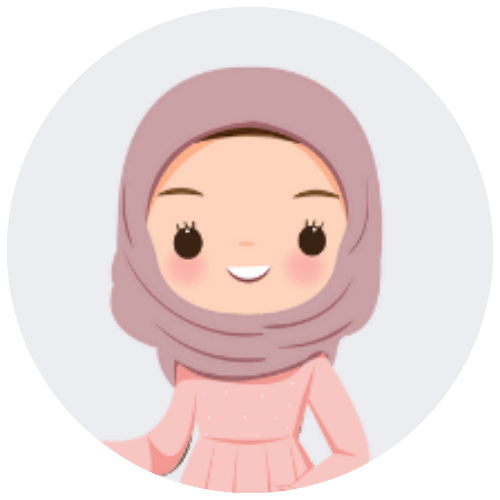
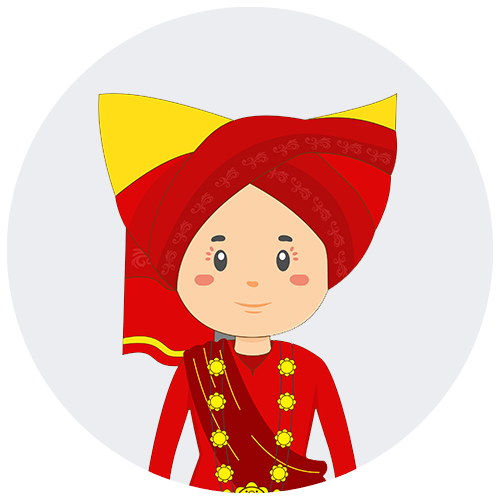
new update data

diff --git a/index.html b/index.html
@@ -4,32 +4,23 @@
     <!-- Common Tag -->
     <meta charset="utf-8" />
     <meta name="viewport" content="width=device-width, initial-scale=1" />
-    <title>Website Undangan Pernikahan Wahyu dan Riski Secara Online</title>
+    <title>Undangan Pernikahan Riga dan Dewi</title>
 
     <!-- SEO Tag -->
     <meta name="author" content="dewanakl" />
     <meta name="language" content="Indonesia" />
     <meta name="robots" content="index, follow, max-image-preview:large" />
     <meta name="googlebot" content="index, follow, max-image-preview:large" />
-    <meta
-      name="title"
-      content="Website Undangan Pernikahan Wahyu dan Riski Secara Online"
-    />
-    <meta
-      name="description"
-      content="Website Undangan Pernikahan Wahyu dan Riski Secara Online"
-    />
+    <meta name="title" content="Undangan Pernikahan Riga dan Dewi" />
+    <meta name="description" content="Undangan Pernikahan Riga dan Dewi" />
     <meta
       name="keywords"
       content="undangan, wedding, undangan digital, undangan online, wedding invitation, template undangan, template undangan pernikahan, undangan pernikahan, template undangan online, wedding invitation github, template website, template website undangan pernikahan"
     />
-    <meta
-      property="og:title"
-      content="Website Undangan Pernikahan Wahyu dan Riski Secara Online"
-    />
+    <meta property="og:title" content="Undangan Pernikahan Riga dan Dewi" />
     <meta
       property="og:description"
-      content="Website Undangan Pernikahan Wahyu dan Riski Secara Online"
+      content="Undangan Pernikahan Riga dan Dewi"
     />
     <meta
       property="og:keywords"
@@ -44,23 +35,17 @@
       content="https://ulems.my.id/assets/images/bg.jpeg"
     />
     <meta property="og:image:type" content="image/jpeg" />
-    <meta
-      property="og:image:alt"
-      content="Website Undangan Pernikahan Wahyu dan Riski Secara Online"
-    />
+    <meta property="og:image:alt" content="Undangan Pernikahan Riga dan Dewi" />
     <meta property="og:type" content="website" />
     <meta property="og:locale" content="id_ID" />
     <meta property="og:url" content="https://ulems.my.id" />
-    <meta
-      property="og:site_name"
-      content="Website Undangan Pernikahan Wahyu dan Riski Secara Online"
-    />
+    <meta property="og:site_name" content="Undangan Pernikahan Riga dan Dewi" />
 
     <!-- Appearance -->
     <meta name="mobile-web-app-capable" content="yes" />
     <meta
       name="apple-mobile-web-app-title"
-      content="Website Undangan Pernikahan Wahyu dan Riski Secara Online"
+      content="Undangan Pernikahan Riga dan Dewi"
     />
     <meta name="theme-color" content="#111111" />
     <meta name="color-scheme" content="dark" />
@@ -265,7 +250,7 @@
           <div class="py-4">
             <div class="img-crop border border-3 border-light shadow mx-auto">
               <img
-                src="./assets/images/bg.jpeg"
+                src="./assets/images/bg-minang.jpg"
                 alt="bg"
                 onclick="util.modal(this)"
               />
@@ -275,7 +260,7 @@
           <h1 class="font-esthetic my-4" style="font-size: 3rem">
             Riga &amp; Dewi
           </h1>
-          <p class="mb-0" style="font-size: 1.5rem">Minggu, 18 Agustus 2024</p>
+          <p class="mb-0" style="font-size: 1.5rem">Senin, 9 September 2024</p>
 
           <a
             class="btn btn-outline-light btn-sm shadow rounded-pill px-3 my-2"
@@ -380,7 +365,8 @@
               </h1>
               <p class="mt-3 mb-0" style="font-size: 1.25rem">Putra</p>
               <p class="mb-0">
-                Putra Kedua dari Bapak Supratman Dt. Nagari Basa &amp; Des
+                Putra Ketiga dari Bapak Supratman Dt. Nagari Basa &amp;
+                Desmarayeni
               </p>
             </div>
 
@@ -434,9 +420,11 @@
                   onclick="util.modal(this)"
                 />
               </div>
-              <h1 class="font-esthetic" style="font-size: 3rem">Ndak Tau</h1>
+              <h1 class="font-esthetic" style="font-size: 3rem">Citra Dewi</h1>
               <p class="mt-3 mb-0" style="font-size: 1.25rem">Putri</p>
-              <p class="mb-0">Bapak ... &amp; Ibu ...</p>
+              <p class="mb-0">
+                Putri Pertama dari Bapak Kamaruddin &amp; Ibu Yetfilotri
+              </p>
             </div>
           </div>
 
@@ -538,7 +526,7 @@
               <!-- Ganti waktunya pada data-waktu (sesuai format tersebut) -->
               <div
                 class="row justify-content-center"
-                data-time="2024-08-18 09:00:00"
+                data-time="2024-09-09 09:00:00"
                 id="count-down"
               >
                 <div class="col-3 p-1">
@@ -585,20 +573,26 @@
             </div>
 
             <div class="overflow-x-hidden">
-              <div class="py-2" data-aos="fade-right" data-aos-duration="1500">
+              <div
+                class="py-2 mb-3"
+                data-aos="fade-right"
+                data-aos-duration="1500"
+              >
                 <h1 class="font-esthetic" style="font-size: 2rem">Akad</h1>
-                <p>Pukul 09.00 WIB - Selesai</p>
+                <p>Minggu, 18 Agustus 2024</p>
+                <p>Padang Tagak, Jorong Batu Hampar, Nagari Manggopoh</p>
               </div>
 
               <div class="py-2" data-aos="fade-left" data-aos-duration="1500">
                 <h1 class="font-esthetic" style="font-size: 2rem">Resepsi</h1>
-                <p>Pukul 13.00 WIB - Selesai</p>
+                <p>Minggu, 09 September 2024</p>
+                <p>Pukul 09.00 WIB - Selesai</p>
               </div>
             </div>
 
             <div class="py-2" data-aos="fade-up" data-aos-duration="1500">
               <a
-                href="https://goo.gl/maps/ALZR6FJZU3kxVwN86"
+                href="https://maps.app.goo.gl/QDJyiFgQsYP2T8ek9"
                 target="_blank"
                 class="btn btn-outline-light btn-sm rounded-pill shadow-sm mb-2 px-3"
               >
@@ -606,8 +600,8 @@
                 Maps
               </a>
               <p class="mb-0 mt-1 mx-1 pb-4" style="font-size: 0.9rem">
-                RT 10 RW 02, Desa Pajerukan, Kec. Kalibagor, Kab. Banyumas, Jawa
-                Tengah 53191
+                Jl. Tuanku Nan Renceh, Lubuk Basung, Kec. Lubuk Basung,
+                Kabupaten Agam, Sumatera Barat 26452
               </p>
             </div>
           </div>
@@ -634,7 +628,7 @@
       </div>
 
       <!-- Galeri Foto -->
-      <section class="dark-section bg-black" id="galeri">
+      <!-- <section class="dark-section bg-black" id="galeri">
         <div class="container pb-5 pt-4">
           <div class="card-body border rounded-5 shadow p-3">
             <h1
@@ -815,7 +809,7 @@
             </div>
           </div>
         </div>
-      </section>
+      </section> -->
 
       <!-- Wave Separator -->
       <svg
@@ -831,7 +825,7 @@
       </svg>
 
       <!-- Love Gift -->
-      <div class="container">
+      <!-- <div class="container">
         <div class="pb-2">
           <div class="text-center">
             <h1 class="font-esthetic mt-0 mb-3" style="font-size: 3rem">
@@ -863,7 +857,6 @@
                     a.n Lorem ipsum dolor
                   </p>
 
-                  <!-- Ubah juga data-copy sesuai dengan no rekening -->
                   <button
                     class="btn btn-outline-dark btn-sm rounded-3"
                     data-copy="123456789"
@@ -892,7 +885,6 @@
                     a.n Lorem ipsum dolor
                   </p>
 
-                  <!-- Ubah juga data-copy sesuai dengan no rekening -->
                   <button
                     class="btn btn-outline-dark btn-sm rounded-3"
                     data-copy="123456789"
@@ -906,7 +898,7 @@
             </div>
           </div>
         </div>
-      </div>
+      </div> -->
 
       <!-- Comments -->
       <section class="m-0 px-0 pb-0 pt-3" id="ucapan">
@@ -1033,12 +1025,25 @@
             Wassalamualaikum Warahmatullahi Wabarakatuh
           </h1>
           <h1
-            class="font-arabic pt-4 px-2"
+            class="font-arabic py-4 px-2"
             data-aos="fade-up"
             data-aos-duration="2000"
             style="font-size: 2rem"
           >
             اَلْحَمْدُ لِلّٰهِ رَبِّ الْعٰلَمِيْنَۙ
+          </h1>
+
+          <h1 class="font-esthetic" data-aos="fade-up" data-aos-duration="2000">
+            Sampai Jumpa di Hari Bahagia Kami
+          </h1>
+
+          <h1
+            class="font-esthetic my-4"
+            data-aos="fade-up"
+            data-aos-duration="2000"
+            style="font-size: 2.5rem"
+          >
+            Riga &amp; Dewi
           </h1>
 
           <hr class="mt-3 mb-2" />
@@ -1086,7 +1091,7 @@
           <div
             class="img-crop border border-3 border-light shadow mb-4 mx-auto"
           >
-            <img src="./assets/images/bg.jpeg" alt="background" />
+            <img src="./assets/images/bg-minang.jpg" alt="background" />
           </div>
 
           <h1 class="font-esthetic my-4" style="font-size: 2.5rem">
@@ -1173,7 +1178,7 @@
               style="height: 100%"
             >
               <img
-                src="./assets/images/bg.jpeg"
+                src="./assets/images/bg-minang.jpg"
                 class="w-100"
                 alt="image"
                 id="show-modal-image"
